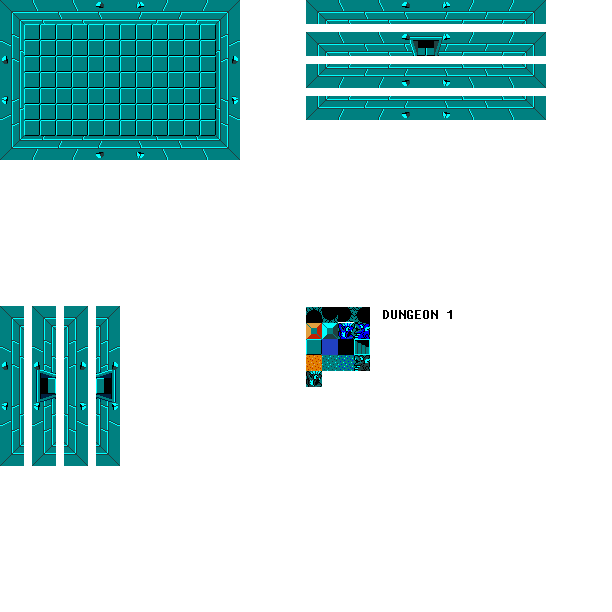
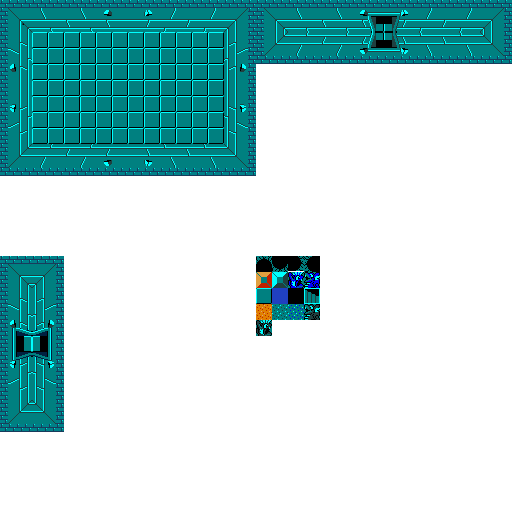
First dungeon without doors.

Changed region(s): [[0.0, 0.0, 1.0, 0.3438], [0.0, 0.5, 0.2188, 0.8438], [0.5, 0.5, 0.75, 0.6562]]

diff --git a/cScene.cpp b/cScene.cpp
@@ -202,15 +202,19 @@ bool cScene::InitTransition(int direction_transition) {
 	return true;
 }
 
-void cScene::DrawTransition(int direction_transition, int transition_num) {
+void cScene::DrawTransition(int direction_transition, int transition_num, bool dungeon) {
 	if (direction_transition == TRANSITION_INSIDE || direction_transition == TRANSITION_OUTSIDE) {
 		if (direction_transition == TRANSITION_INSIDE && transition_num == TILE_SIZE)
-			DrawTransitionEdge(direction_transition, transition_num);
+			DrawTransitionDungeon(direction_transition, transition_num);
 		else if (direction_transition == TRANSITION_OUTSIDE && transition_num == 1)
 			DrawTransitionEdge(direction_transition, transition_num);
 	}
-	else 
-		DrawTransitionEdge(direction_transition, transition_num);
+	else {
+		if(dungeon)
+			DrawTransitionDungeon(direction_transition, transition_num);
+		else
+			DrawTransitionEdge(direction_transition, transition_num);
+	}
 }
 
 void cScene::DrawTransitionEdge(int direction_transition, int transition_num) {
@@ -276,6 +280,83 @@ void cScene::DrawTransitionEdge(int direction_transition, int transition_num) {
 			glTexCoord2f(coordx_tile + 0.0625f, coordy_tile);			glVertex2i(px + BLOCK_SIZE, py + BLOCK_SIZE);
 			glTexCoord2f(coordx_tile, coordy_tile);						glVertex2i(px, py + BLOCK_SIZE);
 
+			px += TILE_SIZE;
+		}
+		OutputDebugString("\n");
+
+	}
+	glEnd();
+	glEndList();
+}
+
+void cScene::DrawTransitionDungeon(int direction_transition, int transition_num) {
+	int offsetx, offsety;
+	offsetx = offsety = 0;
+	if (transition_num % 2 != 0) {
+		transition_num -= 1;
+		switch (direction_transition)
+		{
+		case TRANSITION_BOTTOM:
+			offsety = TILE_SIZE / 2;
+			break;
+		case TRANSITION_TOP:
+			offsety = -TILE_SIZE / 2;
+			break;
+		case TRANSITION_RIGHT:
+			offsetx = -TILE_SIZE / 2;
+			break;
+		case TRANSITION_LEFT:
+			offsetx = TILE_SIZE / 2;
+			break;
+		}
+	}
+	transition_num /= 2;
+	char str[128];
+	int px, py;
+	float coordx_tile, coordy_tile;
+
+	id_DL = glGenLists(1);
+	glNewList(id_DL, GL_COMPILE);
+	glBegin(GL_QUADS);
+
+	glTexCoord2f(0.			, 0. + 0.34375f);	glVertex2i(SCENE_Xo							, SCENE_Yo);
+	glTexCoord2f(0. + 0.5f	, 0. + 0.34375f);	glVertex2i(SCENE_Xo + BLOCK_SIZE*SCENE_WIDTH, SCENE_Yo);
+	glTexCoord2f(0. + 0.5f	, 0.);				glVertex2i(SCENE_Xo + BLOCK_SIZE*SCENE_WIDTH, SCENE_Yo + BLOCK_SIZE*SCENE_HEIGHT);
+	glTexCoord2f(0.			, 0.);				glVertex2i(SCENE_Xo							, SCENE_Yo + BLOCK_SIZE*SCENE_HEIGHT);
+
+	for (int j = SCENE_HEIGHT - 1;j >= 0;j--)
+	{
+		px = SCENE_Xo;
+		py = SCENE_Yo + (j*TILE_SIZE);
+
+		for (int i = 0;i < SCENE_WIDTH;i++)
+		{
+
+			int num = GetNumForTransition(direction_transition, transition_num, i, j);
+
+			if (num < 10)OutputDebugString(" ");
+			sprintf(str, "%d ", num);
+			OutputDebugString(str);
+			if (num != 0 && num != 9) {
+				int columna = (num - 1) % 4;
+				int fila = (num - 1) / 4;
+
+				int num_pixel_x = columna*TILE_SIZE;
+				int num_pixel_y = fila*TILE_SIZE;
+
+				coordx_tile = float(num_pixel_x) / DUNGEON_TILE_MAP_SIZE;
+				coordy_tile = float(num_pixel_y) / DUNGEON_TILE_MAP_SIZE;
+
+				coordx_tile += offsetx + 0.5;
+				coordy_tile += offsety + 0.5;
+
+				//BLOCK_SIZE = 16, FILE_SIZE = 256
+				// 16 / 256 = 0.0625
+				glTexCoord2f(coordx_tile, coordy_tile + 0.03125f);			glVertex2i(px, py);
+				glTexCoord2f(coordx_tile + 0.03125f, coordy_tile + 0.03125f);	glVertex2i(px + BLOCK_SIZE, py);
+				glTexCoord2f(coordx_tile + 0.03125f, coordy_tile);			glVertex2i(px + BLOCK_SIZE, py + BLOCK_SIZE);
+				glTexCoord2f(coordx_tile, coordy_tile);						glVertex2i(px, py + BLOCK_SIZE);
+			}
 			px += TILE_SIZE;
 		}
 		OutputDebugString("\n");

diff --git a/cGame.cpp b/cGame.cpp
@@ -54,6 +54,9 @@ bool cGame::Init()
 	res = Data.LoadImage(IMG_ROPE, "res/rope.png", GL_RGBA);
 	if (!res) return false;
 
+	res = Data.LoadImage(IMG_DUNGEON, "res/dungeon_Tiles.png", GL_RGBA);
+	if (!res) return false;
+
 	////Show player
 	
 	Player.SetWidthHeight(16,16);
@@ -70,6 +73,7 @@ bool cGame::Init()
 	LoadEnemies(enemies);
 
 	Interface = *new cInterface();
+	dungeon = false;
 
 	return res;
 }
@@ -205,9 +209,10 @@ void cGame::Render()
 	switch (state)
 	{
 		case STATE_TRANSITION:
-			Scene.DrawTransition(direction_transition, transition_num);
+			Scene.DrawTransition(direction_transition, transition_num, dungeon);
 			Player.UpdateTransitionPos(transition_num);
-			Scene.Draw(Data.GetID(IMG_BLOCKS));
+			DrawScene();
+			//Scene.Draw(Data.GetID(IMG_BLOCKS));
 			Player.Draw(Data.GetID(IMG_PLAYER));
 			if (Scene.TransitionFinished(direction_transition, transition_num)) {
 				Scene.UpdateMap();
@@ -221,7 +226,8 @@ void cGame::Render()
 				transition_num++;
 			break;
 		default:
-			Scene.Draw(Data.GetID(IMG_BLOCKS));
+			DrawScene();
+			//Scene.Draw(Data.GetID(IMG_BLOCKS));
 			if (!Player.isDead())
 			{
 				Player.Draw(Data.GetID(IMG_PLAYER));
@@ -233,6 +239,27 @@ void cGame::Render()
 	}
 	Interface.Draw(Data.GetID(IMG_INTERFACE));
 	glutSwapBuffers();
+}
+
+void cGame::DrawScene() {
+	if (state == STATE_TRANSITION && direction_transition == TRANSITION_INSIDE) {
+		if(transition_num == TILE_SIZE)
+			Scene.Draw(Data.GetID(IMG_DUNGEON));
+		else
+			Scene.Draw(Data.GetID(IMG_BLOCKS));
+	}
+	else if (state == STATE_TRANSITION && direction_transition == TRANSITION_OUTSIDE) {
+		if (transition_num == 1)
+			Scene.Draw(Data.GetID(IMG_DUNGEON));
+		else
+			Scene.Draw(Data.GetID(IMG_BLOCKS));
+	}
+	else {
+		if (dungeon)
+			Scene.Draw(Data.GetID(IMG_DUNGEON));
+		else
+			Scene.Draw(Data.GetID(IMG_BLOCKS));
+	}
 }
 
 bool cGame::StartTransition() {
@@ -247,6 +274,10 @@ bool cGame::StartTransition() {
 	Player.StartTransition(Scene.GetTransitionOutsidePos());
 	transition_num = 1;
 	bool trans = Scene.InitTransition(direction_transition);
+	if (direction_transition == TRANSITION_INSIDE)
+		dungeon = true;
+	if (direction_transition == TRANSITION_OUTSIDE)
+		dungeon = false;
 	if (!trans)
 		state = STATE_PLAYING;
 

diff --git a/cScene.h b/cScene.h
@@ -14,7 +14,8 @@
 #define TILE_SIZE		16 // ==BLOCK_SIZE
 #define BLOCK_SIZE		16 // 16 pixels
 
-#define WORLD_TILE_MAP_SIZE 256
+#define WORLD_TILE_MAP_SIZE		256
+#define DUNGEON_TILE_MAP_SIZE	512
 
 class cScene
 {
@@ -28,11 +29,9 @@ public:
 	bool TransitionIsPosible(int direction_transition);
 	bool TransitionFinished(int direction_transition, int transition_num);
 	void UpdateMap(void);
-	void DrawTransition(int direction_transition, int transition_num);
+	void DrawTransition(int direction_transition, int transition_num, bool dungeon);
 	void DrawTransitionEdge(int direction_transition, int transition_num);
-	void DrawTransitionDeep(int direction_transition, int transition_num);
-	void DrawTransitionLeft(int transition_num);
-	void DrawTransitionRight(int transition_num);
+	void DrawTransitionDungeon(int direction_transition, int transition_num);
 	int GetNumForTransition(int direction_transition, int transition_num, int i, int j);
 	int *GetTransitionOutsidePos();
 	int *GetMap();

diff --git a/cData.h b/cData.h
@@ -4,7 +4,7 @@
 #include "Globals.h"
 
 //Image array size
-#define NUM_IMG			7
+#define NUM_IMG			8
 
 //Image identifiers
 #define IMG_BLOCKS		0
@@ -14,6 +14,7 @@
 #define IMG_OCTOROK     4
 #define IMG_STALFOS     5
 #define IMG_ROPE        6
+#define IMG_DUNGEON     7
 /*
 #define IMG_ENEMY1	2
 #define IMG_ENEMY2	3

diff --git a/cGame.h b/cGame.h
@@ -29,6 +29,7 @@ public:
 	//Output
 	void Render();
 
+	void DrawScene();
 	bool StartTransition();
 private:
 	unsigned char keys[256];
@@ -40,6 +41,7 @@ private:
 	int state = STATE_PLAYING;
 	int transition_num;
 	int direction_transition;
+	bool dungeon;
 
 	void LoadEnemies(const fMatrix& mEnemies);
 };
